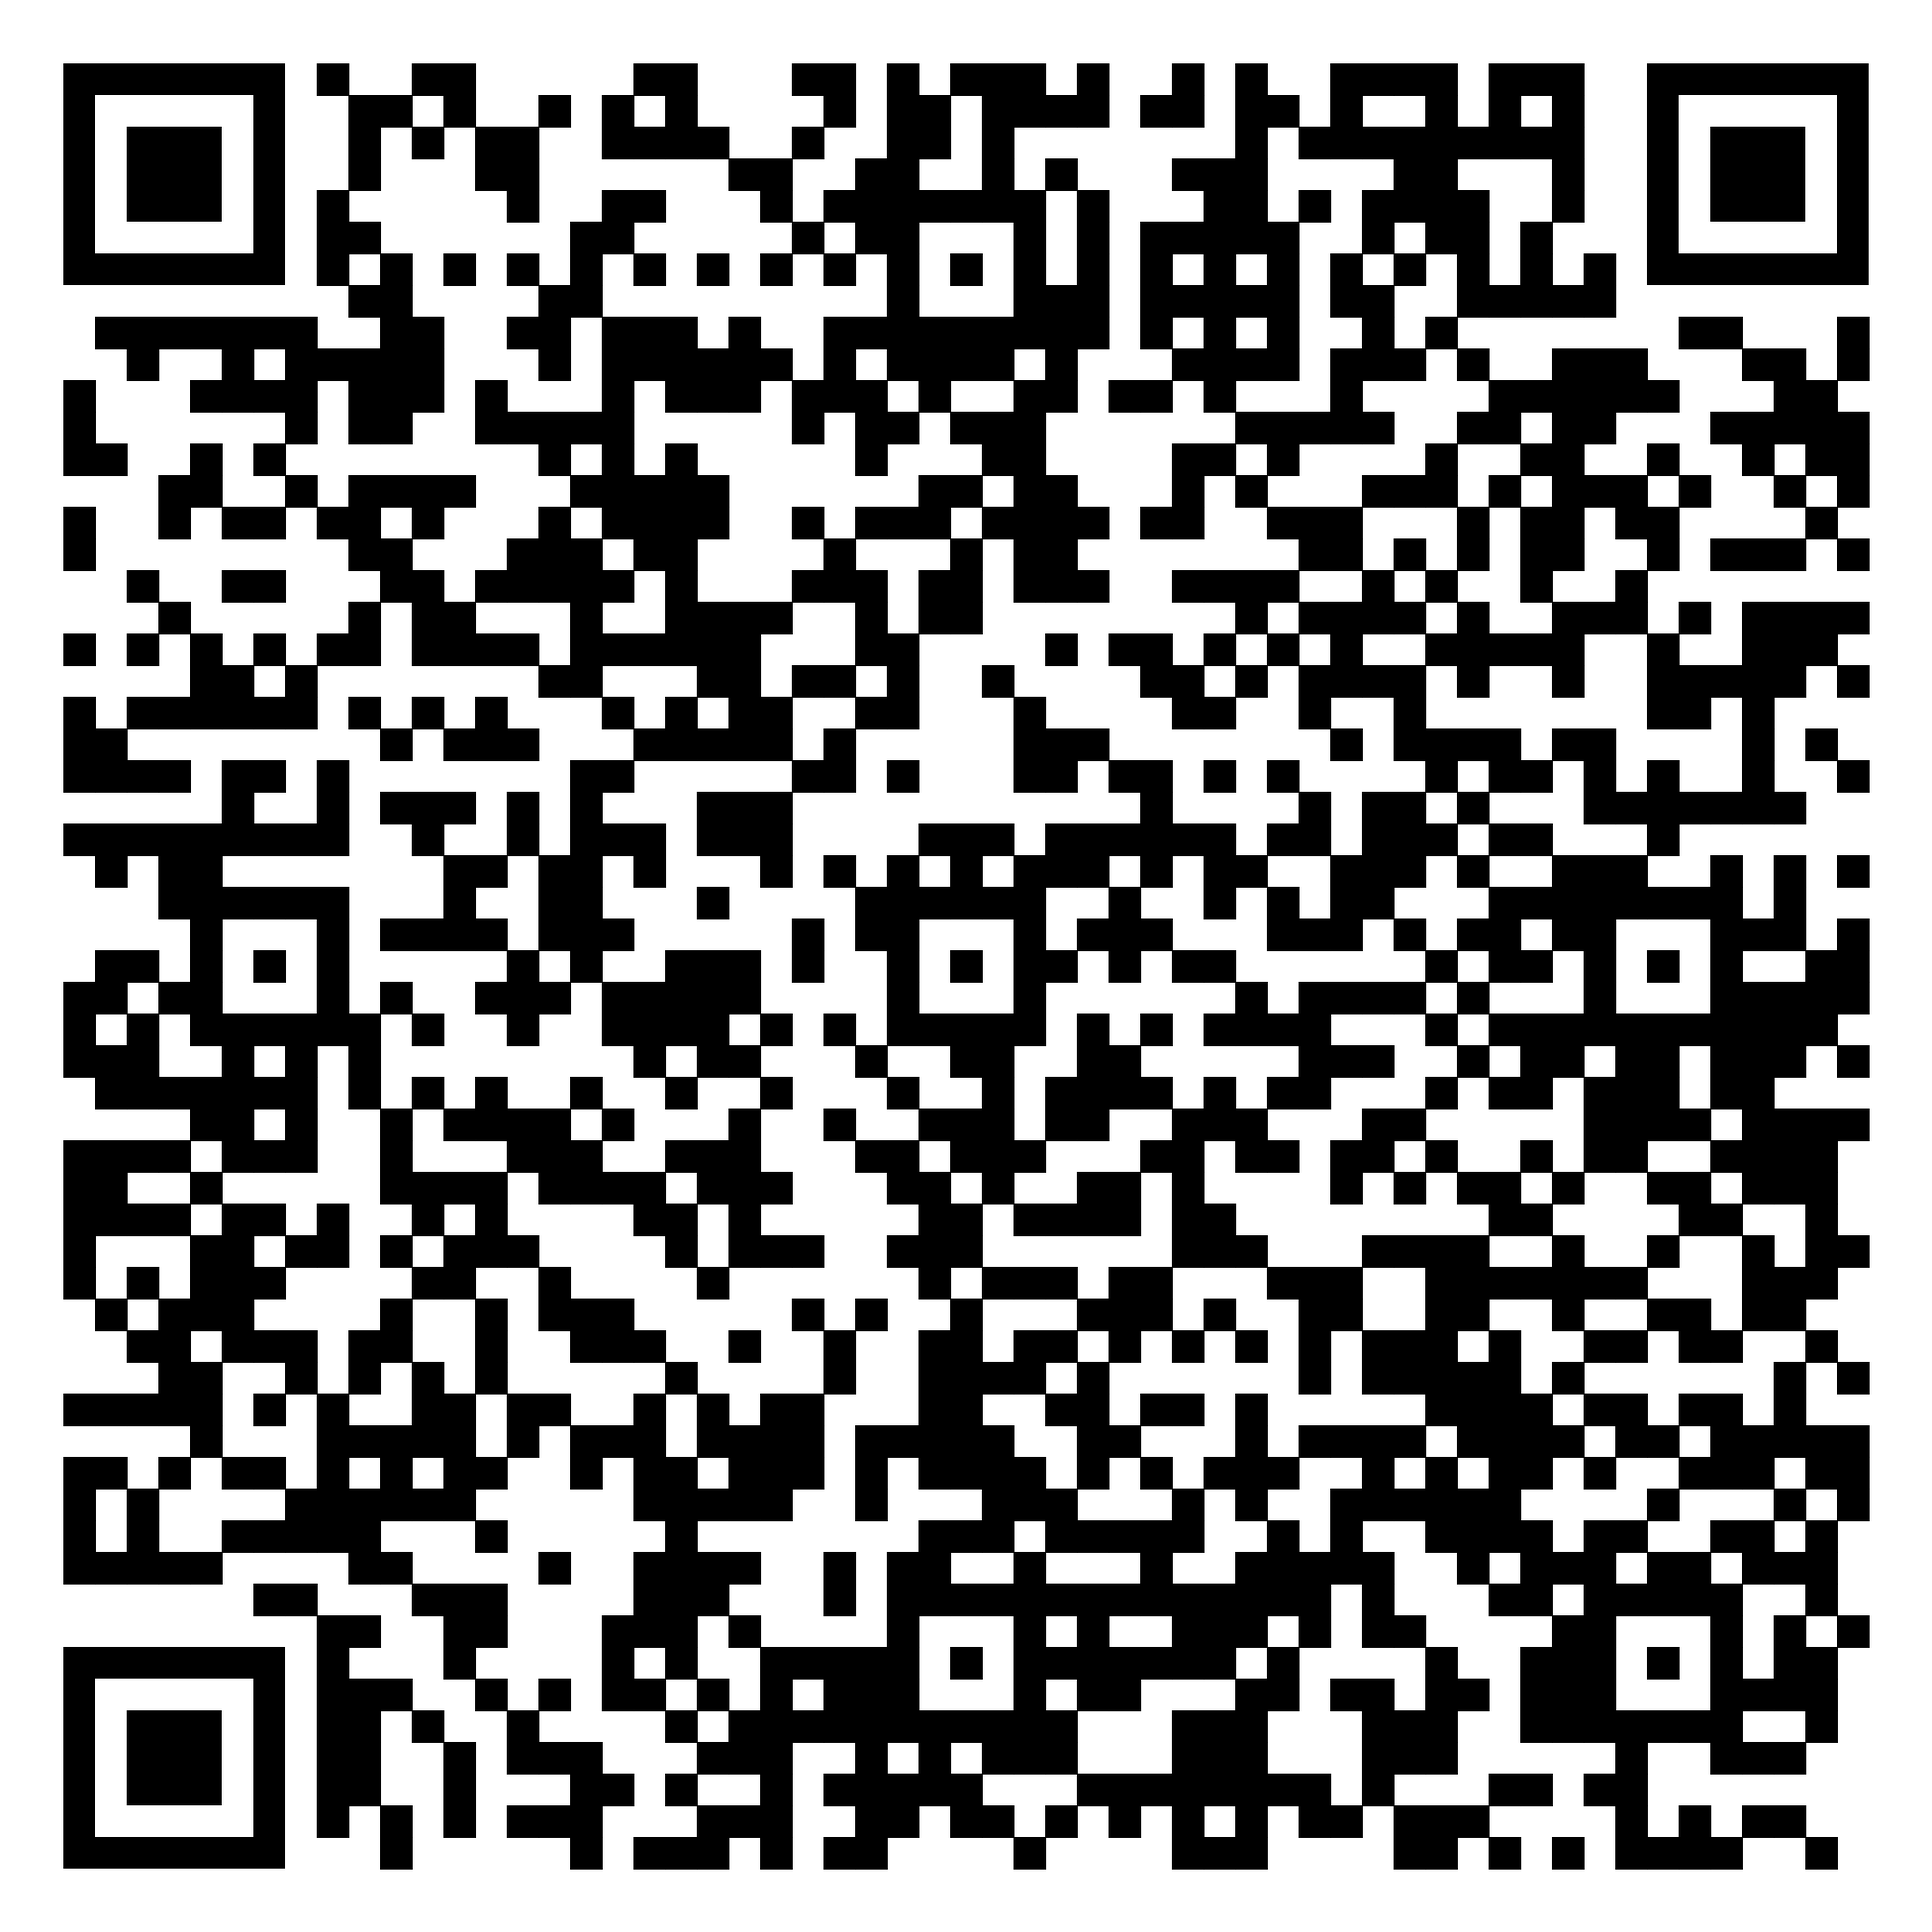
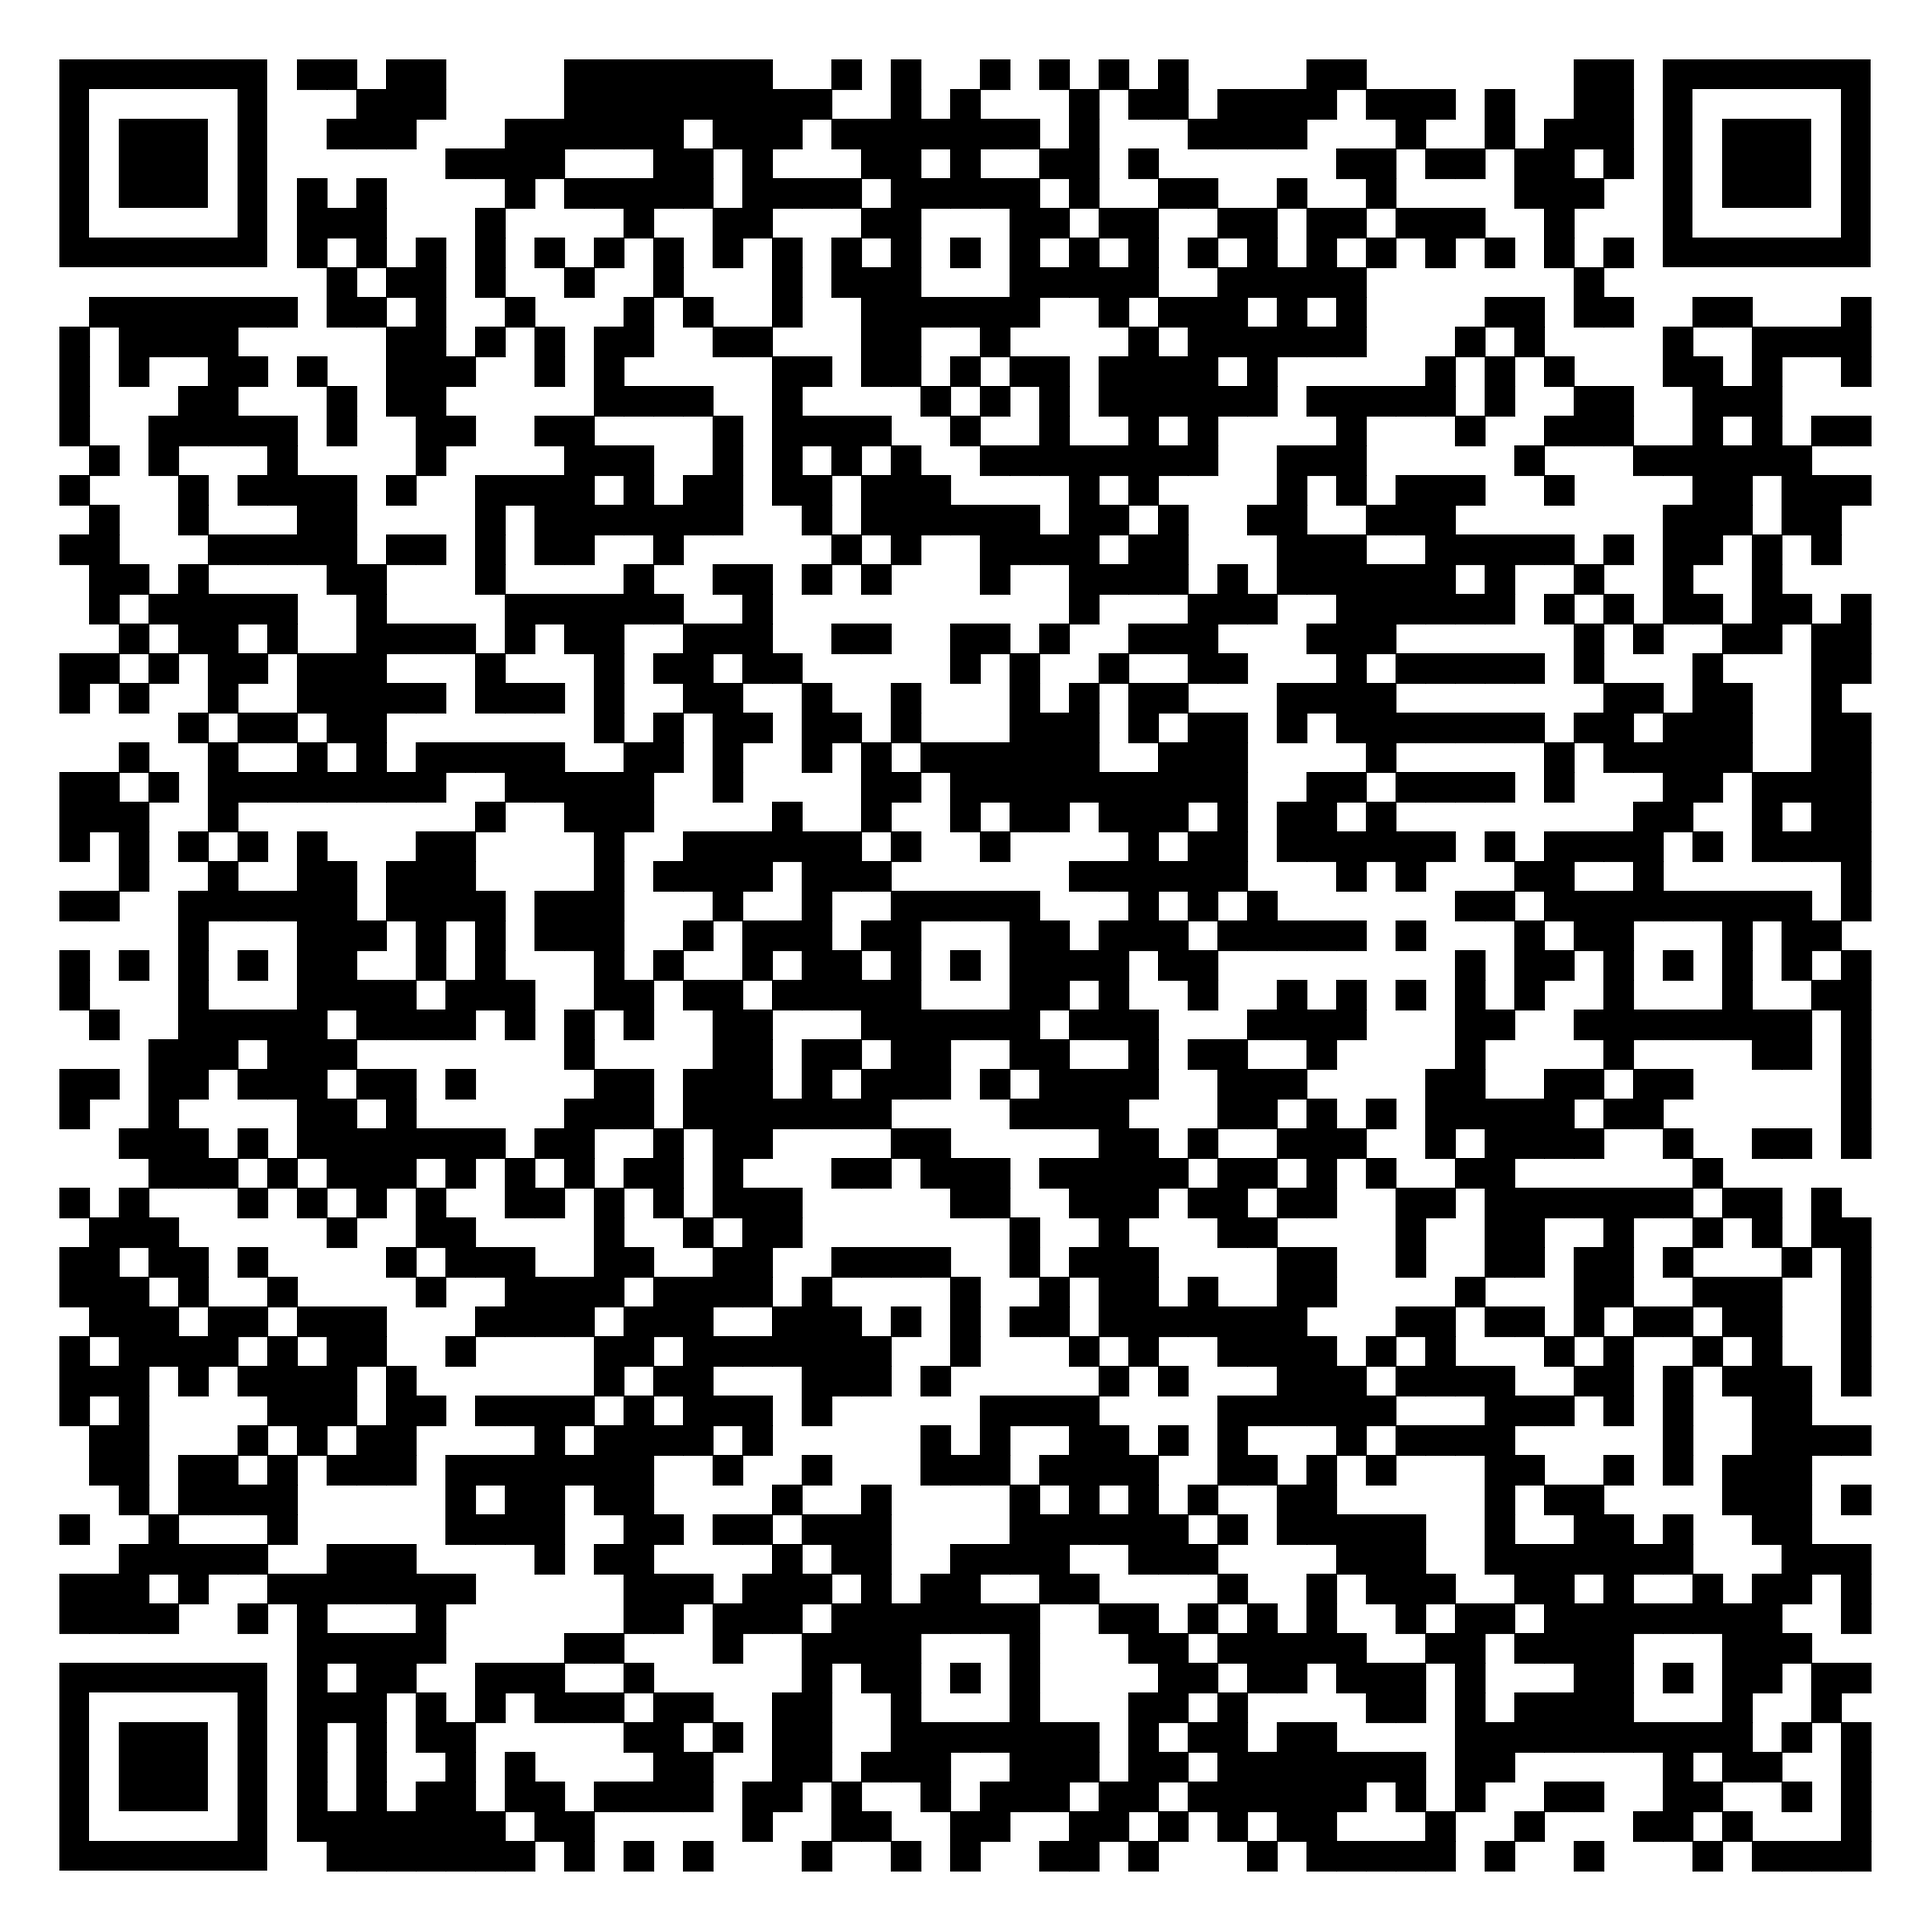
updated repo

diff --git a/README.md b/README.md
@@ -11,10 +11,10 @@ This repository hosts an [F-Droid](https://f-droid.org/) repo for my apps. This 
 
 ### How to use
 1. At first, you should [install the F-Droid app](https://f-droid.org/), it's an alternative app store for Android.
-2. Now you can copy the following [link](https://raw.githubusercontent.com/xarantolus/fdroid/main/fdroid/repo?fingerprint=080898ae4309aeceb58915e43a4b7c4a3e2cda40c91738e2c02f58339ab2fbd7), then add this repository to your F-Droid client:
+2. Now you can copy the following [link](https://raw.githubusercontent.com/rubenbupe/fdroid-repo/main/fdroid/repo?fingerprint=080898ae4309aeceb58915e43a4b7c4a3e2cda40c91738e2c02f58339ab2fbd7), then add this repository to your F-Droid client:
 
     ```
-    https://raw.githubusercontent.com/xarantolus/fdroid/main/fdroid/repo?fingerprint=080898ae4309aeceb58915e43a4b7c4a3e2cda40c91738e2c02f58339ab2fbd7
+    https://raw.githubusercontent.com/rubenbupe/fdroid-repo/main/fdroid/repo?fingerprint=080898ae4309aeceb58915e43a4b7c4a3e2cda40c91738e2c02f58339ab2fbd7
     ```
 
     Alternatively, you can also scan this QR code:
